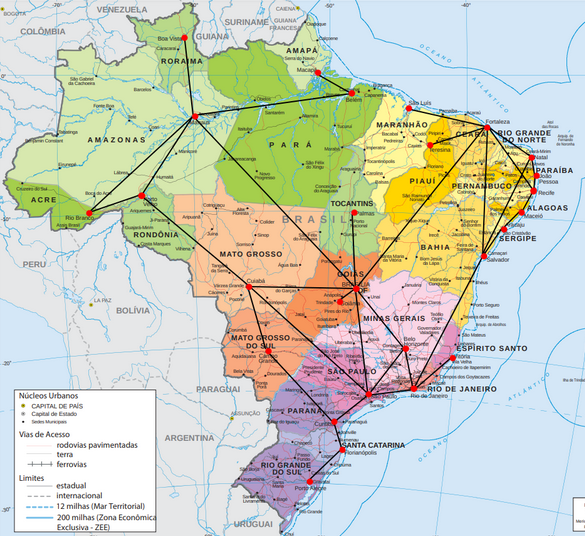
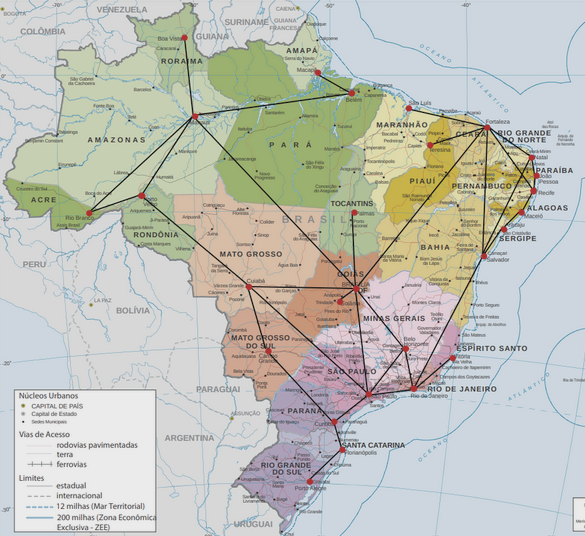
feature: cartographer class, refactor: index.js and Graph class

diff --git a/src/assets/js/classes/Graph.js b/src/assets/js/classes/Graph.js
@@ -4,8 +4,10 @@ import Path from "./Path.js";
 import PriorityQueue from "./PriorityQueue.js";
 
 class Graph {
-  constructor() {
+  constructor(logger, cartographer) {
     this.nodes = new Map();
+    this.cartographer = cartographer;
+    this.logger = logger;
   }
 
   addNode(label) {
@@ -18,8 +20,8 @@ class Graph {
     fromNode.addEdge(toNode, weight);
   }
 
-  static fromJson(data) {
-    const graph = new Graph();
+  static fromJson(data, logger, cartographer) {
+    const graph = new Graph(logger, cartographer);
 
     Object.keys(data).forEach((key) => {
       const from = key;
@@ -51,10 +53,20 @@ class Graph {
     return path;
   }
 
-  getShortestPath(from, to, logger) {
-    logger = logger || null;
+  async uniformCostSearch(from, to) {
+    if (this.logger) this.logger.clear();
 
-    if (logger) logger.println("# Dijkstra", "#fff");
+    if (this.cartographer) {
+      this.cartographer.clearMap();
+      this.cartographer.addMarker(
+        this.cartographer.coordinates[from]["x"],
+        this.cartographer.coordinates[from]["y"]
+      );
+      this.cartographer.addMarker(
+        this.cartographer.coordinates[to]["x"],
+        this.cartographer.coordinates[to]["y"]
+      );
+    }
 
     const fromNode = this.nodes.get(from);
     const toNode = this.nodes.get(to);
@@ -74,28 +86,49 @@ class Graph {
       const current = queue.remove().node;
       visited.add(current);
 
-      if (logger) logger.println("currently at " + current.label, "#0f0");
-
       if (current == toNode) break;
 
-      current.edges.forEach((edge) => {
-        if (logger) {
-          logger.print("--> checking " + edge.to.label, "#0a0");
-          logger.println(" (" + edge.weight + " km)", "#aaa");
-        }
-
-        if (visited.has(edge.to)) return;
+      for (const edge of current.edges) {
+        if (visited.has(edge.to)) continue;
 
         const newDistance = distances.get(current) + edge.weight;
+
         if (newDistance < distances.get(edge.to)) {
           distances.set(edge.to, newDistance);
           previousNodes.set(edge.to, current);
           queue.add(new NodeEntry(edge.to, newDistance));
+
+          if (this.cartographer) {
+            await this.cartographer.drawRoute(
+              this.cartographer.coordinates[edge.from.label]["x"],
+              this.cartographer.coordinates[edge.from.label]["y"],
+              this.cartographer.coordinates[edge.to.label]["x"],
+              this.cartographer.coordinates[edge.to.label]["y"],
+              "#0f0",
+              3
+            );
+            this.cartographer.addMarker(
+              this.cartographer.coordinates[edge.to.label]["x"],
+              this.cartographer.coordinates[edge.to.label]["y"],
+              "#0f0",
+              4
+            );
+            this.cartographer.addMarker(
+              this.cartographer.coordinates[from]["x"],
+              this.cartographer.coordinates[from]["y"]
+            );
+            this.cartographer.addMarker(
+              this.cartographer.coordinates[to]["x"],
+              this.cartographer.coordinates[to]["y"]
+            );
+          }
         }
-      });
+      }
     }
 
-    return this.buildPath(previousNodes, toNode);
+    const path = this.buildPath(previousNodes, toNode);
+    await this.cartographer.drawPath(path);
+    return path;
   }
 }
 

diff --git a/src/index.js b/src/index.js
@@ -1,3 +1,4 @@
+import Cartographer from "./assets/js/classes/Cartographer.js";
 import Graph from "./assets/js/classes/Graph.js";
 import Logger from "./assets/js/classes/Logger.js";
 import routes from "./assets/js/data/routes.js";
@@ -5,6 +6,7 @@ import coordinates from "./assets/js/data/coordinates.js";
 
 const fromList = document.getElementById("from-list");
 const toList = document.getElementById("to-list");
+const searchButton = document.getElementById("search-button");
 
 for (let city in coordinates) {
   const option = document.createElement("option");
@@ -15,63 +17,14 @@ for (let city in coordinates) {
 }
 
 const canvas = document.getElementById("canvas");
-const ctx = canvas.getContext("2d");
-const img = new Image();
-
-img.src = "./src/assets/img/map.png";
-ctx.canvas.width = img.width;
-ctx.canvas.height = img.height;
-img.onload = () => ctx.drawImage(img, 0, 0);
-
+const cartographer = new Cartographer(
+  canvas,
+  "./src/assets/img/map.png",
+  coordinates
+);
 const logger = new Logger(document.getElementById("logger"));
-const graph = Graph.fromJson(routes);
+const graph = Graph.fromJson(routes, logger, cartographer);
 
-const renderFromTo = (from, to) => {
-  ctx.clearRect(0, 0, ctx.canvas.width, ctx.canvas.height);
-  ctx.drawImage(img, 0, 0);
-
-  const radius = 6;
-
-  const xFrom = coordinates[from]["x"];
-  const yFrom = coordinates[from]["y"];
-  ctx.beginPath();
-  ctx.arc(xFrom, yFrom, radius, 0, 2 * Math.PI);
-  ctx.fillStyle = "blue";
-  ctx.fill();
-
-  const xTo = coordinates[to]["x"];
-  const yTo = coordinates[to]["y"];
-  ctx.beginPath();
-  ctx.arc(xTo, yTo, radius, 0, 2 * Math.PI);
-  ctx.fillStyle = "blue";
-  ctx.fill();
-};
-
-fromList.addEventListener("change", () => {
-  renderFromTo(fromList.value, toList.value);
-  renderPath(getPath(fromList.value, toList.value, logger));
+searchButton.addEventListener("click", () => {
+  return graph.uniformCostSearch(fromList.value, toList.value);
 });
-
-toList.addEventListener("change", () => {
-  renderFromTo(fromList.value, toList.value);
-  renderPath(getPath(fromList.value, toList.value, logger));
-});
-
-const getPath = (from, to, logger) => {
-  logger = logger || null;
-  if (logger) logger.clear();
-  return graph.getShortestPath(from, to, logger);
-};
-
-const renderPath = (path) => {
-  path.nodes.forEach((city, i, path) => {
-    if (path[i + 1]) {
-      ctx.beginPath();
-      ctx.moveTo(coordinates[city]["x"], coordinates[city]["y"]);
-      ctx.lineTo(coordinates[path[i + 1]]["x"], coordinates[path[i + 1]]["y"]);
-      ctx.lineWidth = 3;
-      ctx.strokeStyle = "blue";
-      ctx.stroke();
-    }
-  });
-};

diff --git a/src/assets/js/classes/Cartographer.js b/src/assets/js/classes/Cartographer.js
@@ -1,0 +1,53 @@
+class Cartographer {
+  constructor(canvas, image, coordinates) {
+    this.ctx = canvas.getContext("2d");
+    this.map = new Image();
+    this.map.src = image;
+    this.ctx.canvas.width = this.map.width;
+    this.ctx.canvas.height = this.map.height;
+    this.map.onload = () => this.ctx.drawImage(this.map, 0, 0);
+    this.coordinates = coordinates;
+  }
+
+  clearMap() {
+    this.ctx.clearRect(0, 0, this.ctx.canvas.width, this.ctx.canvas.height);
+    this.ctx.drawImage(this.map, 0, 0);
+  }
+
+  addMarker(x, y, color, radius) {
+    this.ctx.beginPath();
+    this.ctx.arc(x, y, radius || 8, 0, 2 * Math.PI);
+    this.ctx.fillStyle = color || "blue";
+    this.ctx.fill();
+  }
+
+  async drawRoute(fromX, fromY, toX, toY, color, width) {
+    this.ctx.beginPath();
+    this.ctx.moveTo(fromX, fromY);
+    this.ctx.lineTo(toX, toY);
+    this.ctx.lineWidth = width || 3;
+    this.ctx.strokeStyle = color || "blue";
+    await this.takeTime(250);
+    this.ctx.stroke();
+  }
+
+  async drawPath(path) {
+    const nodes = path.nodes;
+    for (let i = 0; i < nodes.length; i++) {
+      if (nodes[i + 1]) {
+        await this.drawRoute(
+          this.coordinates[nodes[i]]["x"],
+          this.coordinates[nodes[i]]["y"],
+          this.coordinates[nodes[i + 1]]["x"],
+          this.coordinates[nodes[i + 1]]["y"]
+        );
+      }
+    }
+  }
+
+  async takeTime(time) {
+    await new Promise((r) => setTimeout(r, time));
+  }
+}
+
+export default Cartographer;

diff --git a/src/index.html b/src/index.html
@@ -6,17 +6,35 @@
     <meta name="viewport" content="width=device-width, initial-scale=1.0" />
     <link rel="stylesheet" href="src/assets/css/index.css" />
     <base href="./" />
-    <title>Document</title>
+    <title>Pathfinding</title>
   </head>
   <body>
     <div id="root">
       <div class="menu-area">
-        <form class="menu">
-          <span>From</span>
-          <select id="from-list"></select>
-          <span>To</span>
-          <select id="to-list"></select>
-        </form>
+        <div class="menu">
+          <!-- <div class="from-to-container"></div> -->
+          <div class="menu-item">
+            <span>From</span>
+            <select id="from-list"></select>
+          </div>
+          <div class="menu-item">
+            <span>To</span>
+            <select id="to-list"></select>
+          </div>
+          <!-- </div> -->
+          <fieldset class="menu-item">
+            <legend>Algorithm</legend>
+            <div>
+              <input id="ucs" type="radio" name="algorithm" value="ucs" />
+              <label for="ucs">Uniform Cost Search</label>
+            </div>
+            <div>
+              <input id="a-star" type="radio" name="algorithm" value="a-star" />
+              <label for="a-star">A*</label>
+            </div>
+          </fieldset>
+          <button id="search-button">Search</button>
+        </div>
       </div>
       <div id="logger" class="log-area"></div>
       <div class="canvas-area">

diff --git a/src/assets/js/data/coordinates.js b/src/assets/js/data/coordinates.js
@@ -3,25 +3,25 @@ export default {
   "Belo Horizonte": { x: 406, y: 350 },
   Belém: { x: 351, y: 94 },
   "Boa Vista": { x: 184, y: 39 },
-  Brasília: { x: 356, y: 290 },
+  Brasília: { x: 356, y: 289 },
   "Campo Grande": { x: 268, y: 352 },
   Cuiabá: { x: 249, y: 287 },
   Curitiba: { x: 335, y: 423 },
-  Florianópolis: { x: 343, y: 451 },
-  Fortaleza: { x: 487, y: 128 },
+  Florianópolis: { x: 342, y: 451 },
+  Fortaleza: { x: 486, y: 127 },
   Goiânia: { x: 339, y: 303 },
   "João Pessoa": { x: 536, y: 176 },
   Macapá: { x: 318, y: 73 },
   Maceió: { x: 521, y: 212 },
-  Manaus: { x: 195, y: 118 },
+  Manaus: { x: 195, y: 116 },
   Natal: { x: 531, y: 159 },
-  Palmas: { x: 355, y: 214 },
+  Palmas: { x: 353, y: 214 },
   "Porto Alegre": { x: 309, y: 483 },
   "Porto Velho": { x: 142, y: 196 },
   Recife: { x: 534, y: 192 },
   "Rio Branco": { x: 89, y: 214 },
   "Rio de Janeiro": { x: 414, y: 390 },
-  Salvador: { x: 484, y: 257 },
+  Salvador: { x: 483, y: 256 },
   "São Luis": { x: 409, y: 109 },
   "São Paulo": { x: 368, y: 395 },
   Teresina: { x: 430, y: 146 },

diff --git a/src/assets/css/index.css b/src/assets/css/index.css
@@ -2,6 +2,7 @@ html,
 body {
   margin: 0;
   padding: 0;
+  font-family: Arial, Helvetica, sans-serif;
 }
 
 #root {
@@ -18,11 +19,21 @@ body {
 }
 
 .menu {
-  padding: 8px;
   display: flex;
   flex-direction: column;
   justify-content: center;
   align-items: center;
+}
+
+.menu-item {
+  display: flex;
+  flex-direction: column;
+  margin: 8px 0px;
+  width: 100%;
+}
+
+.menu-item > select {
+  padding: 6px;
 }
 
 .log-area {
@@ -34,7 +45,7 @@ body {
 }
 
 .log-area > span {
-  font-family: Arial, Helvetica, sans-serif;
+  font-family: monospace;
   font-size: 10pt;
 }
 

diff --git a/src/assets/js/classes/PriorityQueue.js b/src/assets/js/classes/PriorityQueue.js
@@ -22,6 +22,10 @@ class PriorityQueue {
     return this.items[--this.count];
   }
 
+  peek() {
+    return this.items[this.count - 1];
+  }
+
   isEmpty() {
     return this.count == 0;
   }
